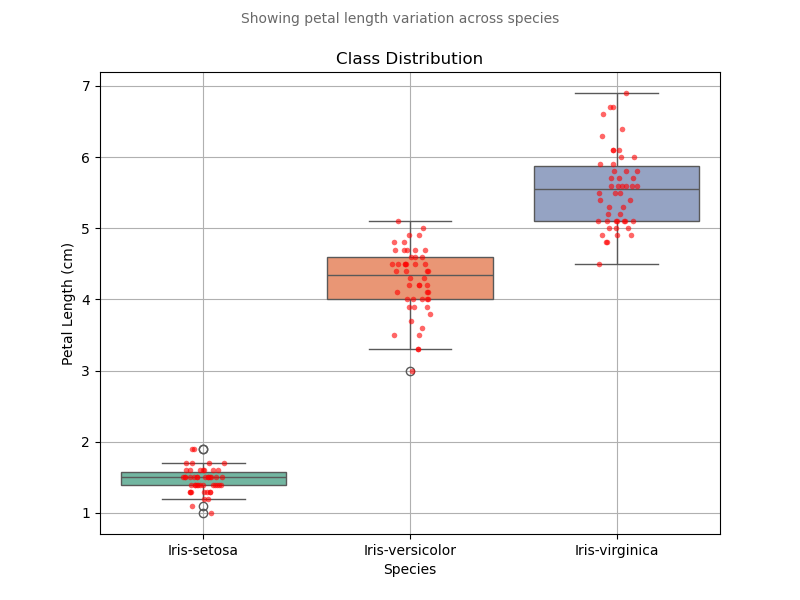
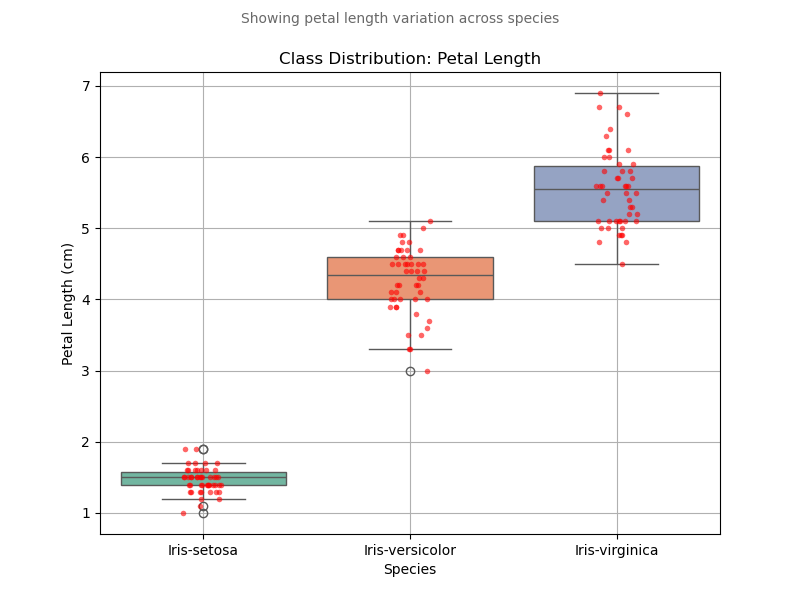
adding boxplots for sepal width and petal width

diff --git a/analysis.py b/analysis.py
@@ -546,7 +546,7 @@ sns.stripplot(x="species", y="petal_length", data=df, color="red", size=4, jitte
 # Adding titles and labels
 plt.xlabel("Species")                      # X-axis label → 📚 https://matplotlib.org/stable/api/_as_gen/matplotlib.pyplot.xlabel.html
 plt.ylabel("Petal Length (cm)")            # Y-axis label → 📚 https://matplotlib.org/stable/api/_as_gen/matplotlib.pyplot.ylabel.html
-plt.title("Class Distribution")  # Overall plot title → 📚 https://www.geeksforgeeks.org/matplotlib-pyplot-title-in-python/
+plt.title("Class Distribution: Petal Length")  # Overall plot title → 📚 https://www.geeksforgeeks.org/matplotlib-pyplot-title-in-python/
 plt.suptitle("Showing petal length variation across species", fontsize=10, color="dimgray")
 
 plt.grid(True)  # Adding grid lines to the plot to make it easier to read → 📚 https://matplotlib.org/stable/api/_as_gen/matplotlib.pyplot.grid.html
@@ -575,6 +575,52 @@ plt.suptitle("Showing petal length variation across species", fontsize=10, color
 plt.grid(True)
 
 plt.savefig("boxplot_class_distribution_sepal_length.png")
+plt.close()
+
+
+# ------------------------------
+# Box plot for Sepal Width
+
+# (this code repeats the same process as above)
+# Different pallete is used for variety
+
+plt.figure(figsize=(8, 6))
+
+sns.boxplot(x="species", y="sepal_width", hue="species", data=df, palette="viridis")
+
+sns.stripplot(x="species", y="sepal_width", data=df, color="red", size=4, jitter=True, dodge=True, alpha=0.6)
+
+plt.xlabel("Species")                    
+plt.ylabel("Sepal Width (cm)")          
+plt.title("Class Distribution: Sepal Width") 
+plt.suptitle("Showing sepal width variation across species", fontsize=10, color="dimgray")
+
+plt.grid(True)
+
+plt.savefig("boxplot_class_distribution_sepal_width.png")
+plt.close()
+
+
+# ------------------------------
+# Box plot for Petal Width
+
+# (this code repeats the same process as above)
+# Different pallete is used for variety
+
+plt.figure(figsize=(8, 6))
+
+sns.boxplot(x="species", y="petal_width", hue="species", data=df, palette="cubehelix")
+
+sns.stripplot(x="species", y="petal_width", data=df, color="red", size=4, jitter=True, dodge=True, alpha=0.6)
+
+plt.xlabel("Species")                    
+plt.ylabel("Petal Width (cm)")          
+plt.title("Class Distribution: Petal Width") 
+plt.suptitle("Showing Petal width variation across species", fontsize=10, color="dimgray")
+
+plt.grid(True)
+
+plt.savefig("boxplot_class_distribution_petal_width.png")
 plt.close()
 
 

diff --git a/README.md b/README.md
@@ -12,9 +12,9 @@ This research titled *"The use of multiple measurements in taxonomic problems"* 
 - *Iris virginica* 
 
 Attribute information dataset is:
-- Sepal length (cm)
-- Sepal width (cm)
-- Petal length (cm)
+- Sepal length (cm)*
+- Sepal width (cm)*
+- Petal length (cm)*
 - Petal width (cm)
 - Class
 
